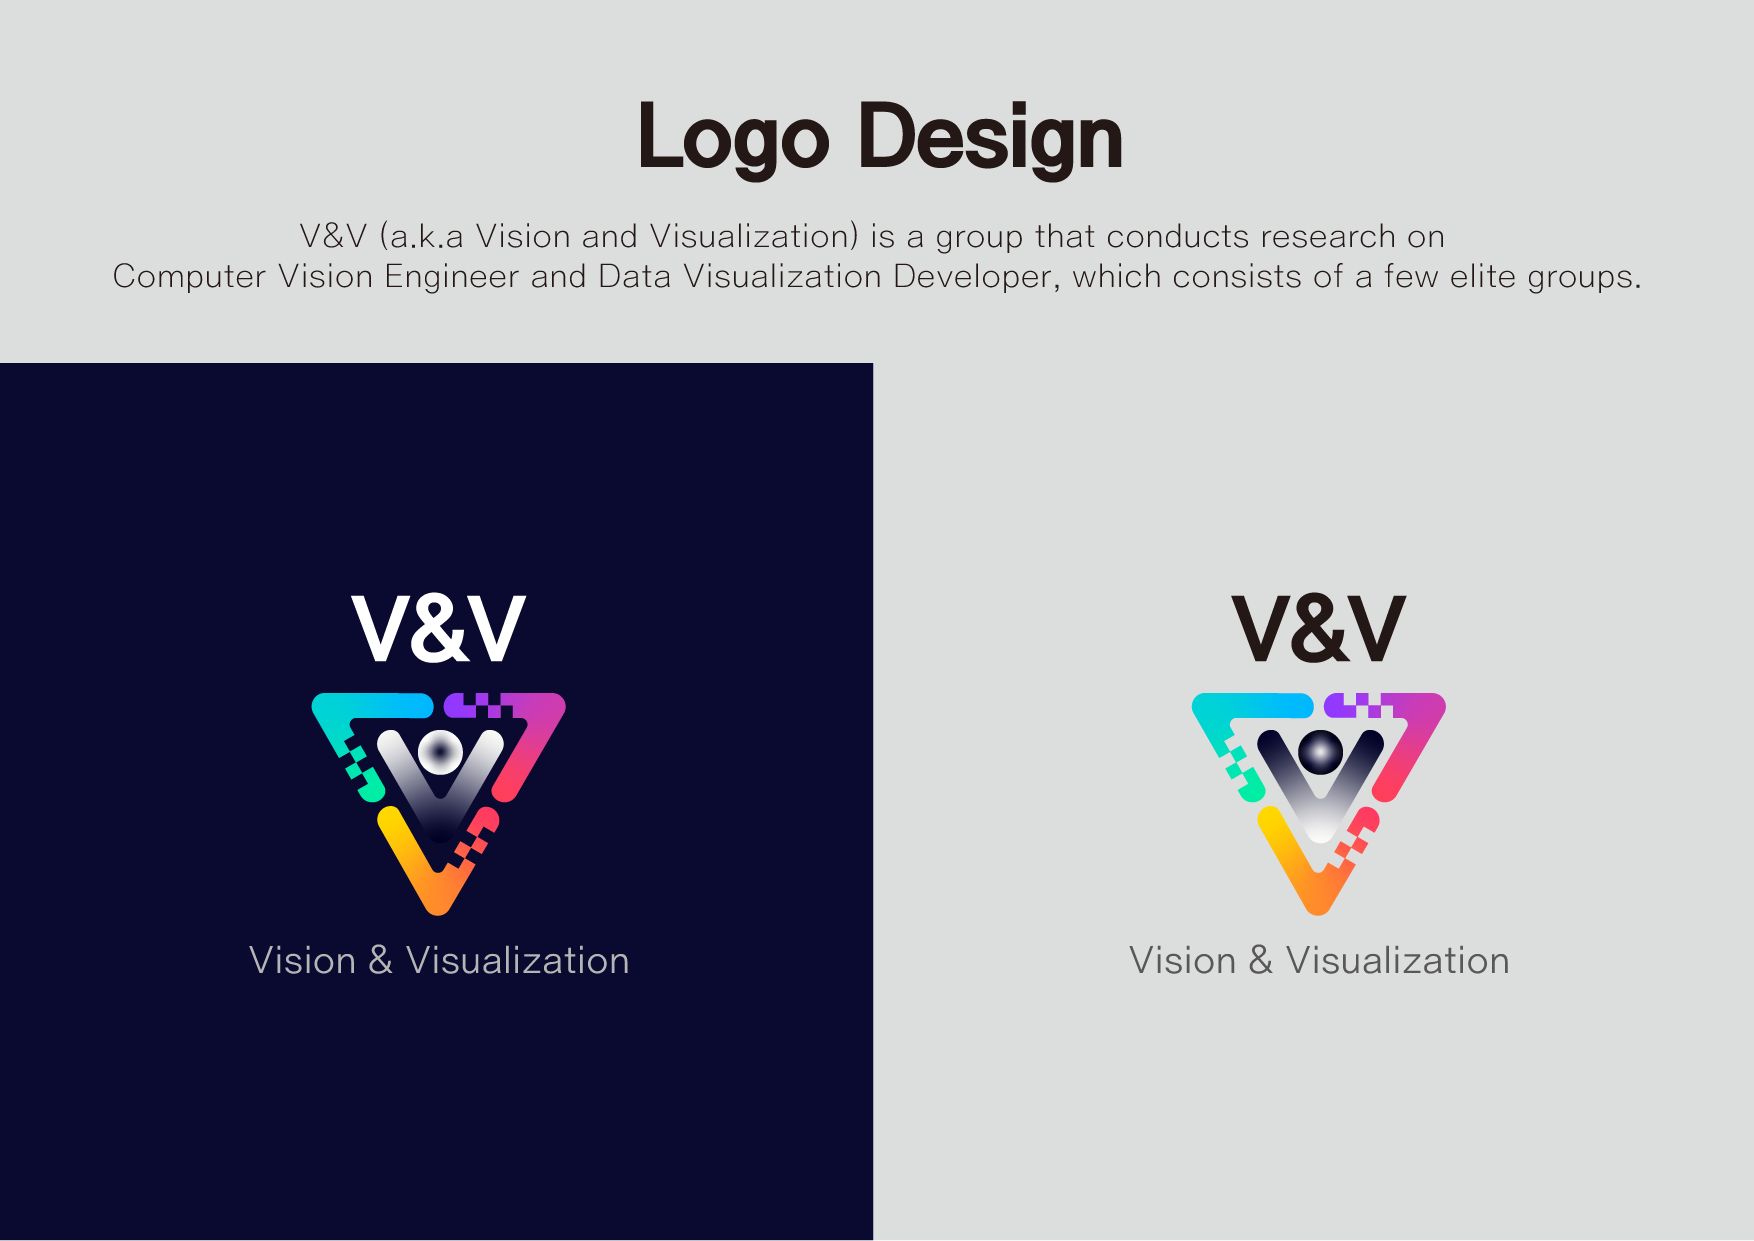
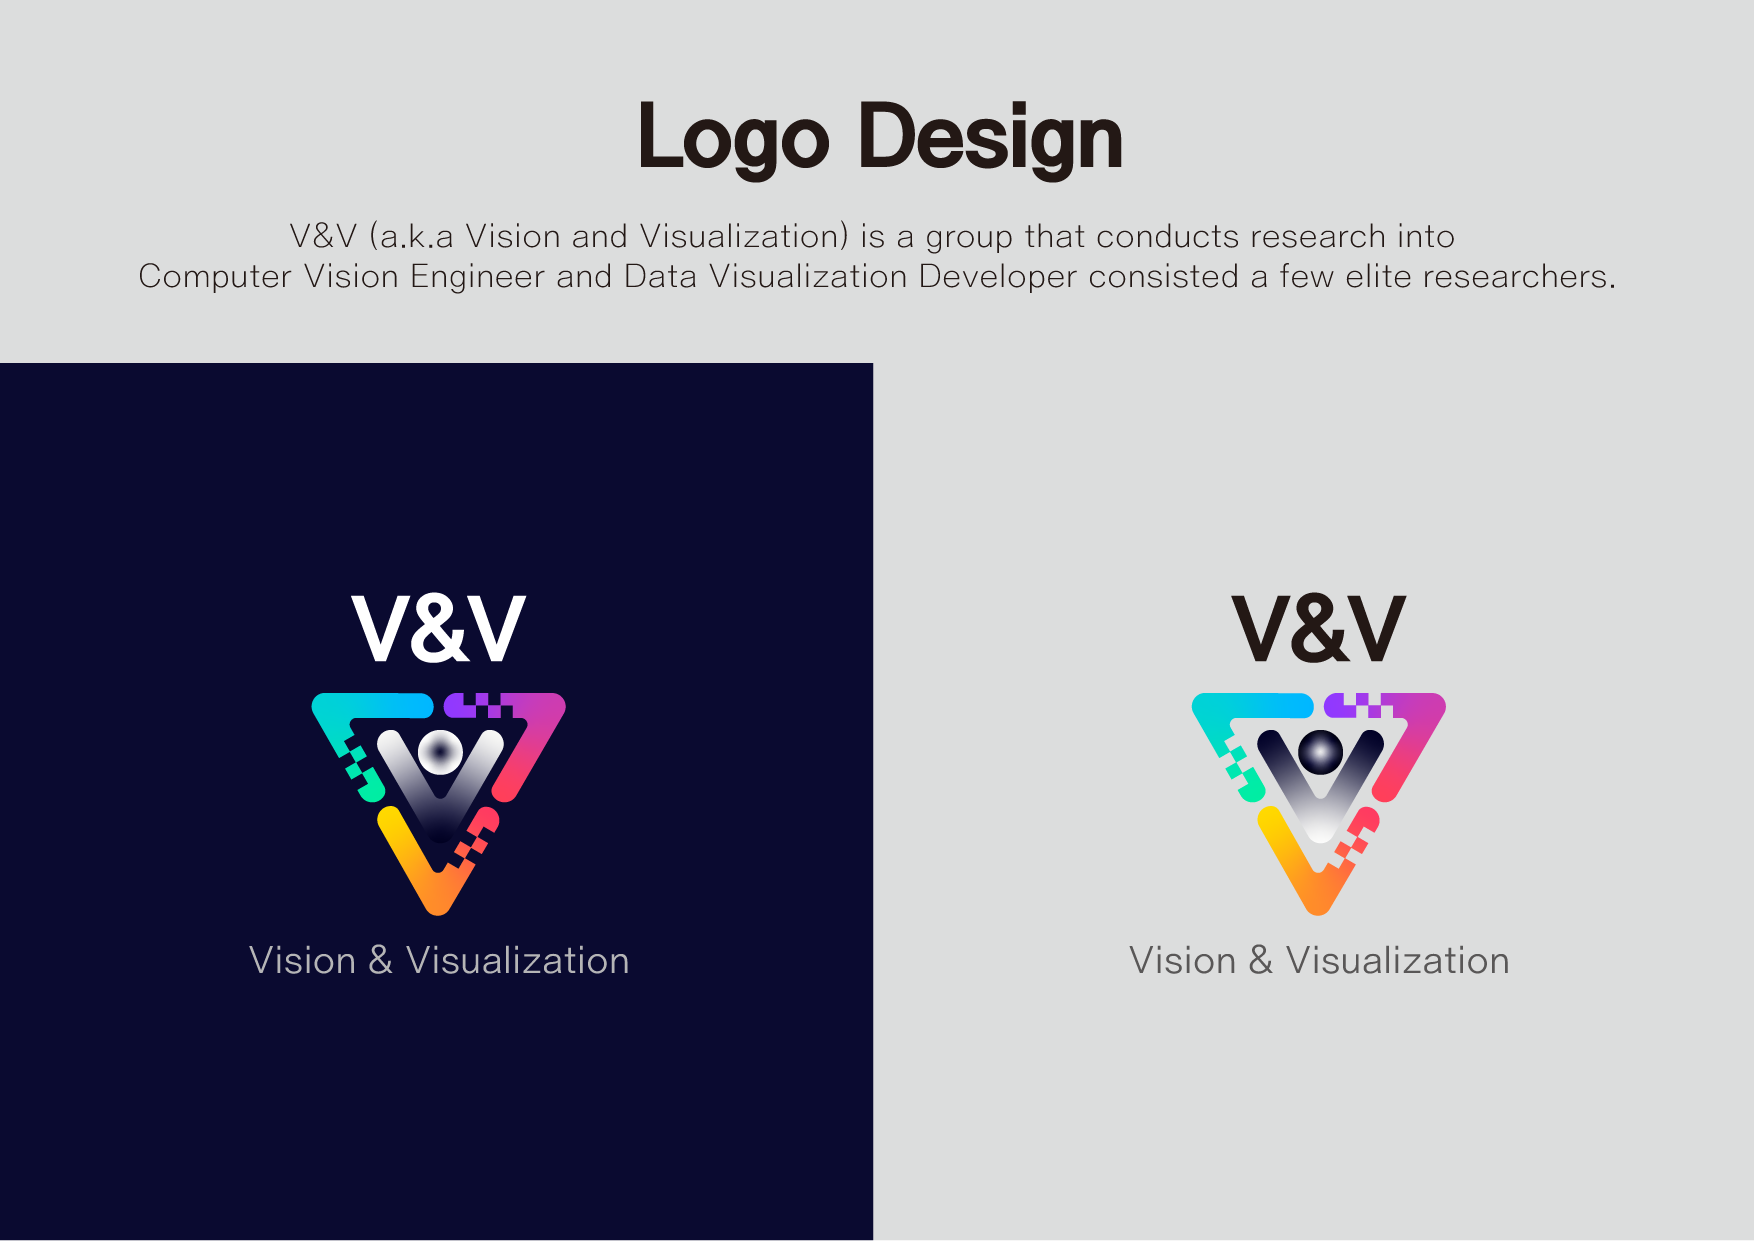
fl

Changed region(s): [[0.0616, 0.1837, 0.9236, 0.245]]

diff --git a/README.md b/README.md
@@ -1,10 +1,10 @@
-# VnV(Visioj & Visualization)
+# VnV(Vision & Visualization)
 
-There is no day or night for us who combine computer vision research with beautiful visualization.
+We work hard day and night for harmonizing Computer Vision Research with efficient Visualization.
 
-V&V (a.k.a Vision and Visualization) is a group that conducts research on Computer Vision Engineer and Data Visualization Developer, which consists of a few elite groups.
+Our future sees the light. I hope that the light becomes beautiful like a rainbow.
 
-Our future sees light. I hope that light becomes a beautiful light like a rainbow.
+V&V (a.k.a Vision and Visualization) is a group that conducts research into Computer Vision Engineer and Data Visualization Developer consisted a few elite researchers.
 
 ![](res/1.png)
 ![](res/2.png)
